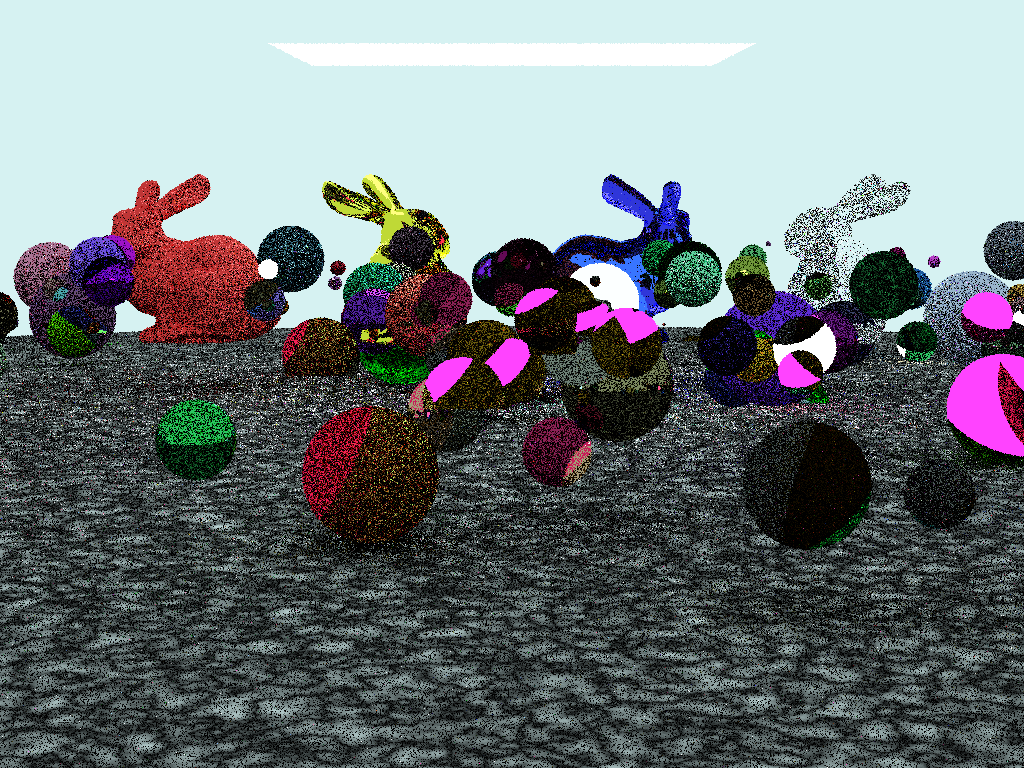
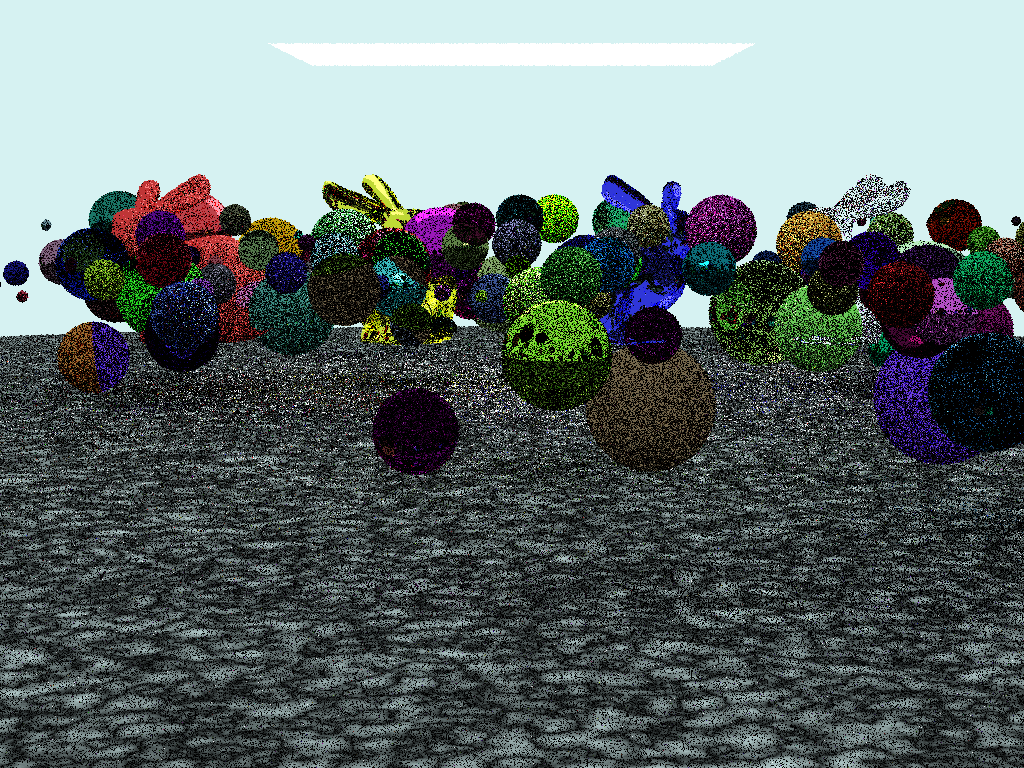
Minor update

diff --git a/scene/planeandbunny.h b/scene/planeandbunny.h
@@ -22,7 +22,7 @@ std::vector<std::shared_ptr<Primitive>> scene() {
     const int num_sphere = 300;
     for(int i=0; i<num_sphere; i++) {
         auto x = (random_double() * 2.0f - 1.0f) * sphere_field;
-        auto y = random_double() * 5.0f;
+        auto y = random_double() * 5.0f + 2.5f;
         auto z = (random_double() * 2.0f - 1.0f) * sphere_field;
         ts.pushMatrix();
         ts.translate(vec3(x, y, z));
@@ -33,8 +33,7 @@ std::vector<std::shared_ptr<Primitive>> scene() {
         std::shared_ptr<Material> mat_ptr;
         if(rnd < 0.5f) mat_ptr = std::make_shared<Lambertian>(albedo);
         else if(rnd < 0.7f) mat_ptr = std::make_shared<Dielectric>(albedo, 1.52);
-        else if(rnd < 0.9f) mat_ptr = std::make_shared<Metal>(albedo, 0.0f);
-        else mat_ptr = std::make_shared<Emitter>(albedo, 10.0f);
+        else if(rnd < 1.0f) mat_ptr = std::make_shared<Metal>(albedo, 0.0f);
 
         primitives.emplace_back(
             std::make_shared<ShapePrimitive>(

diff --git a/src/core/Primitive.h b/src/core/Primitive.h
@@ -22,8 +22,10 @@ public:
         if(!shape->intersect(tr_ray, t_min, t_max, rec))
             return false;
         
-        auto p = mat4::point_mul(transform->getMatrix(), rec.p);
-        auto normal = normalize(mat4::vector_mul(transform->getMatrix(), rec.normal));
+        auto p = rec.p;
+        auto normal = rec.normal;
+        p = mat4::point_mul(transform->getMatrix(), rec.p);
+        normal = normalize(mat4::vector_mul(transform->getMatrix(), rec.normal));
 
         rec.p = p;
         rec.set_face_normal(tr_ray, normal);
